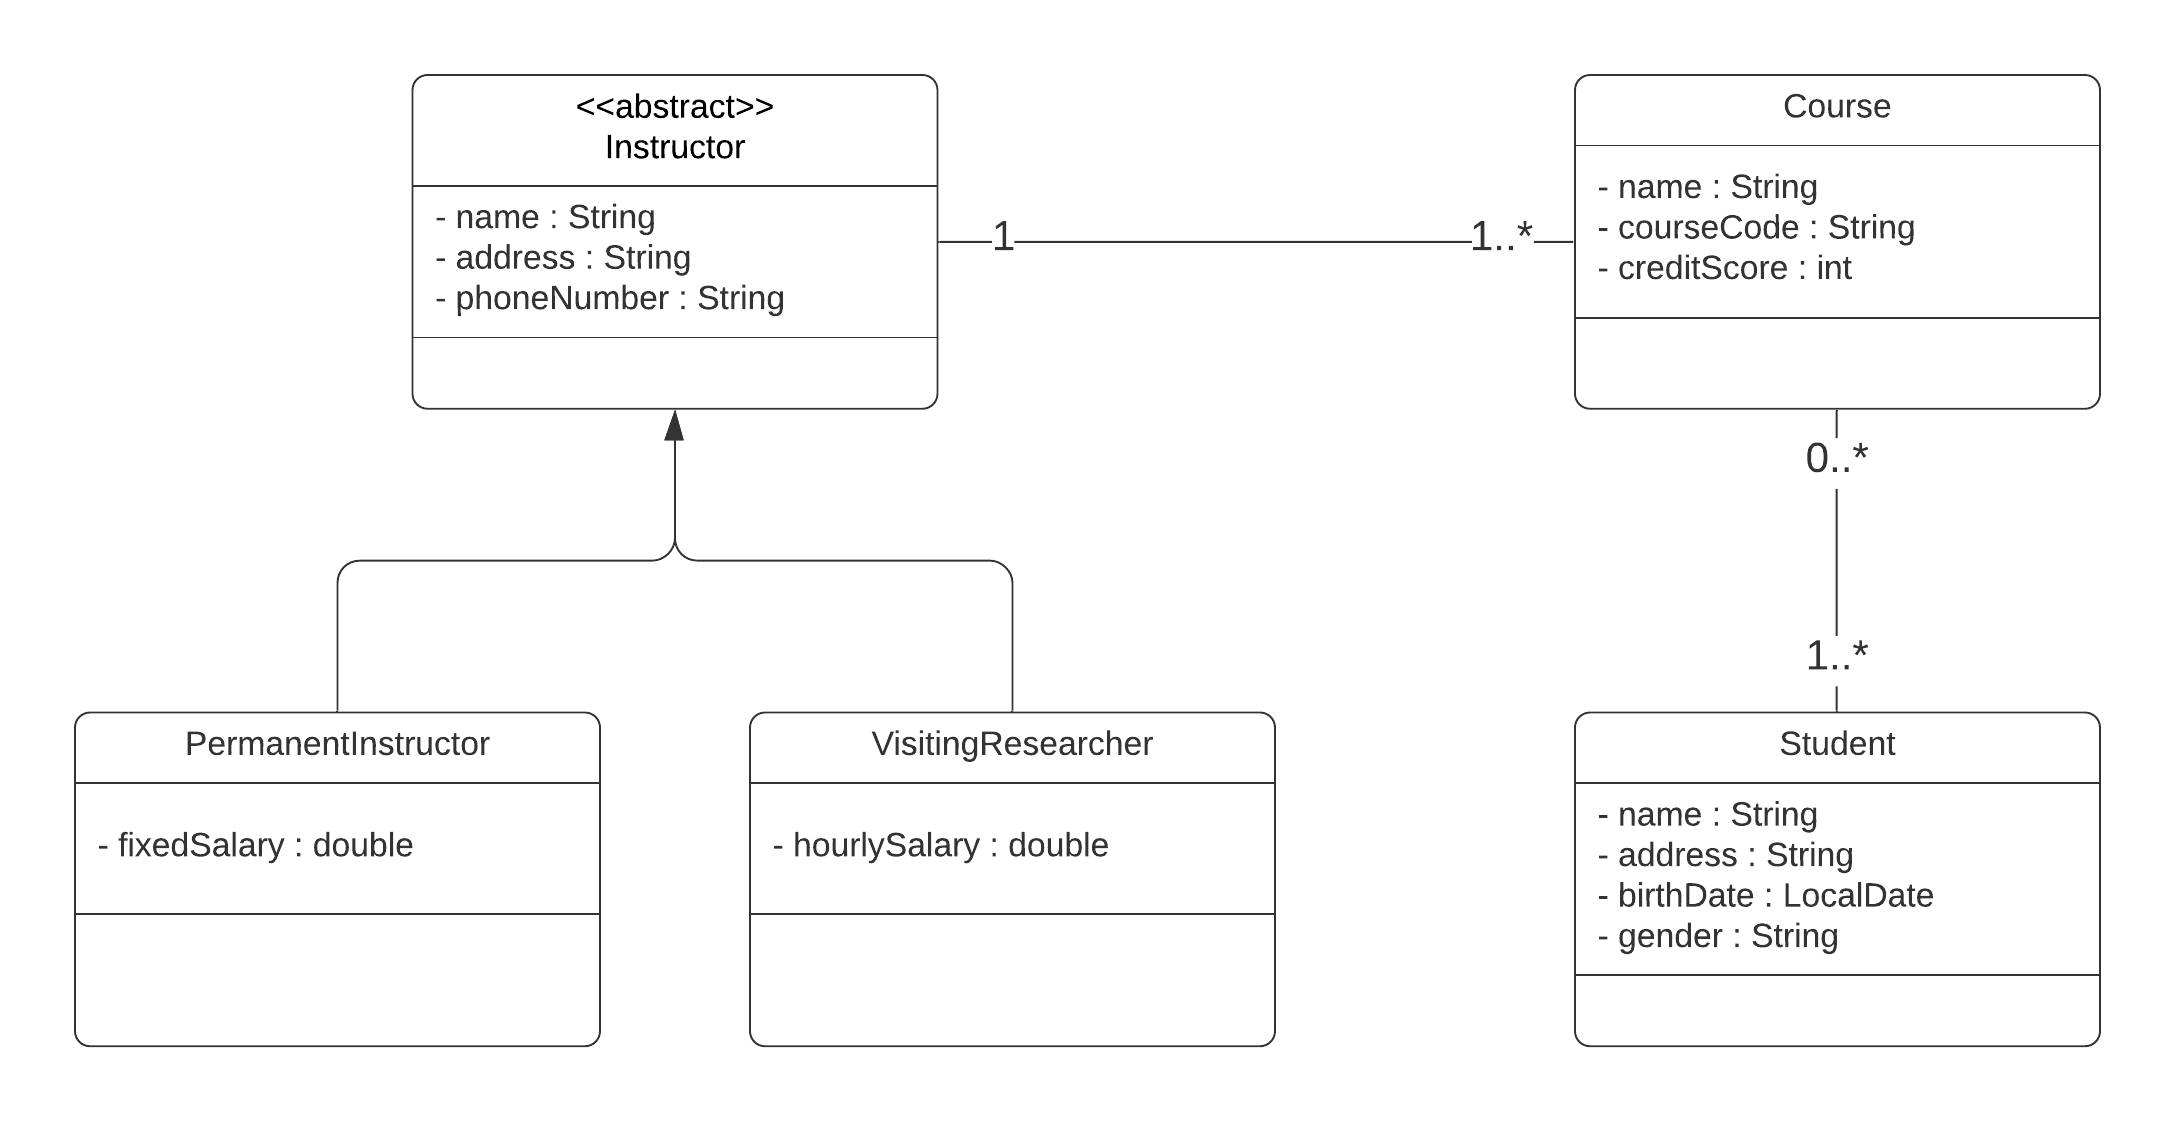
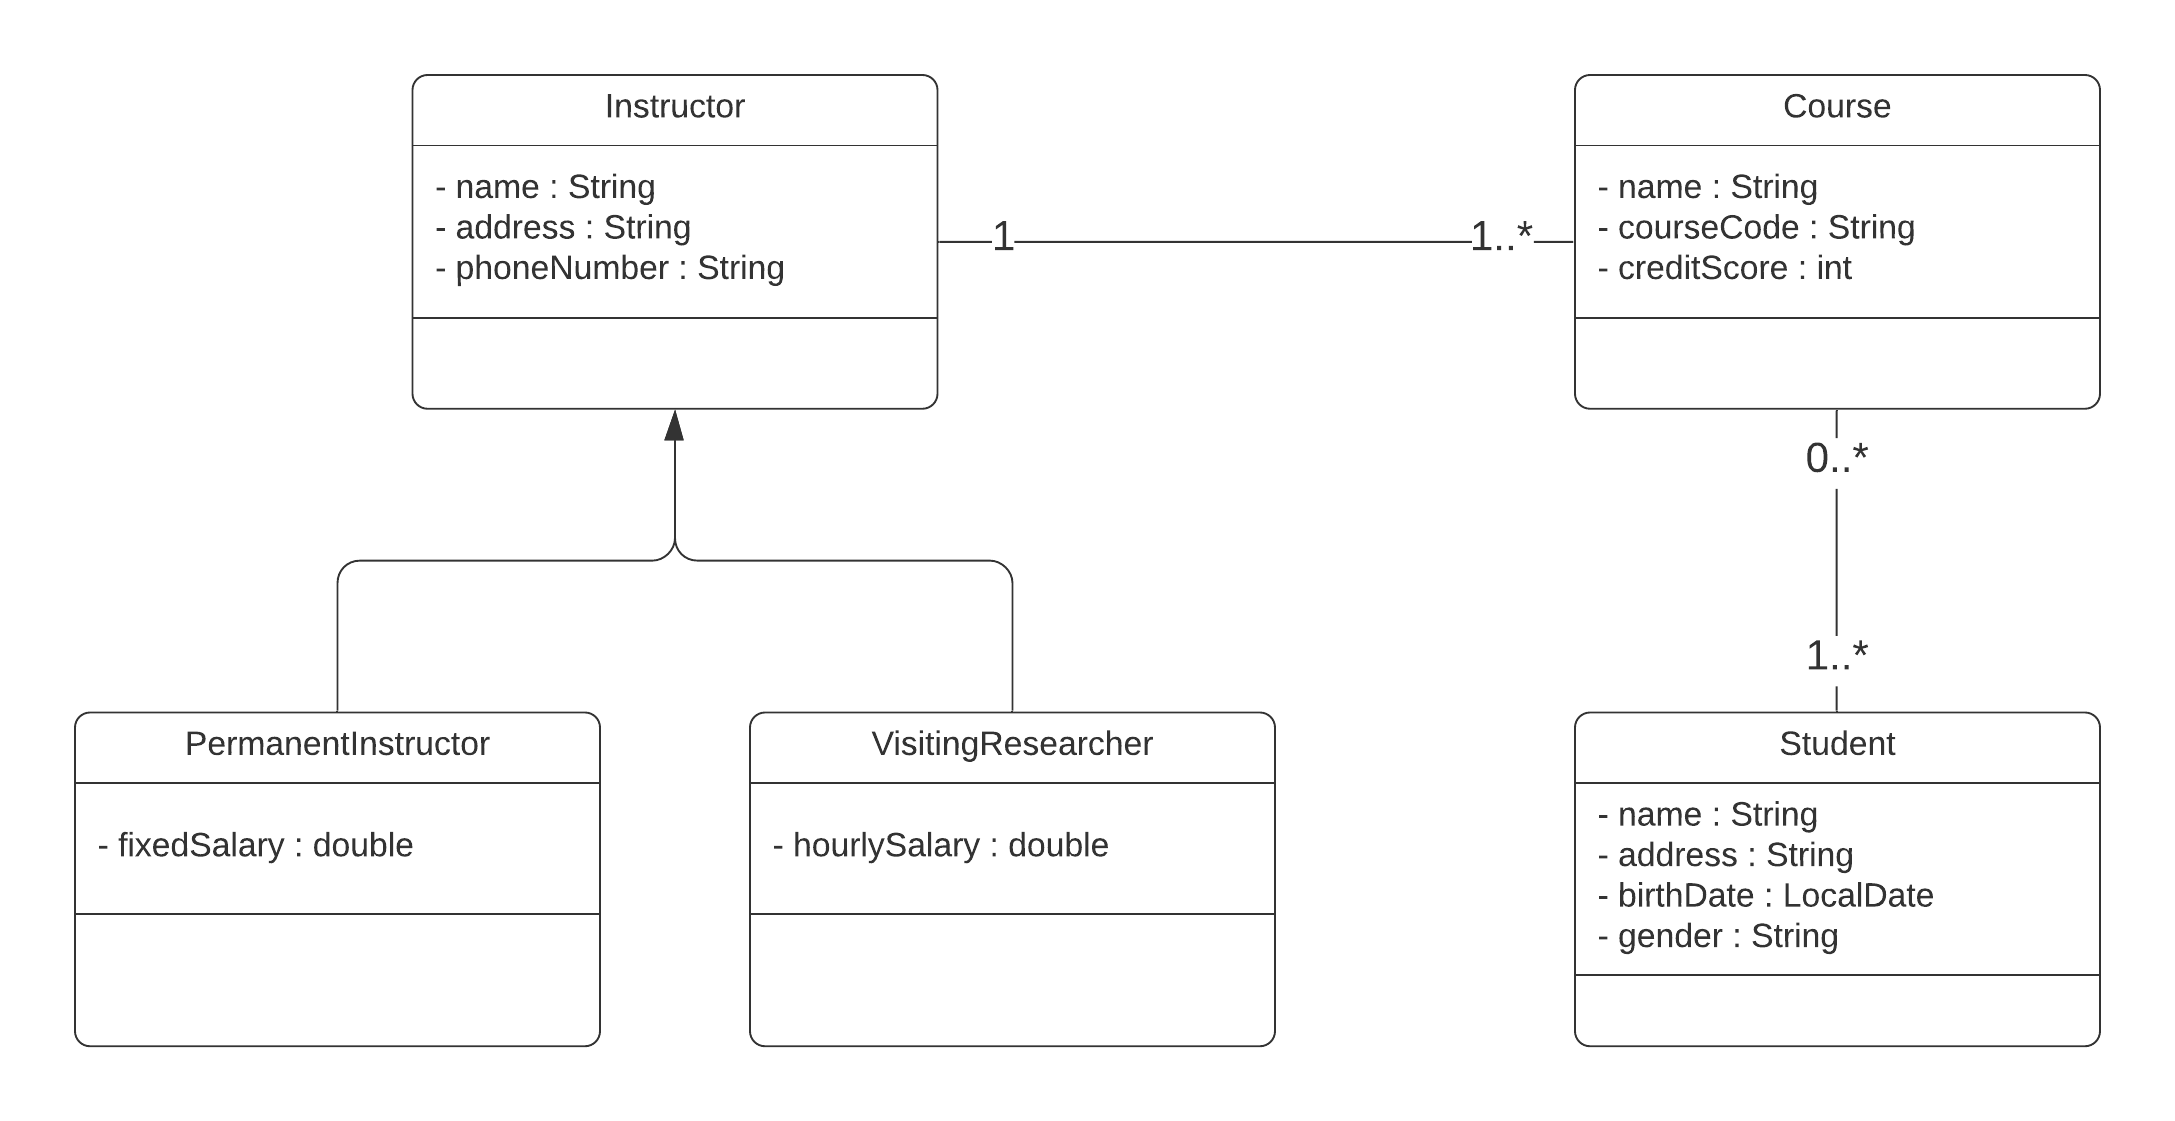
Course endpoints, service and repository

Changed region(s): [[0.1848, 0.0624, 0.3697, 0.281]]

diff --git a/school-management-system/src/main/java/io/github/muhittinpalamutcu/schoolmanagementsystem/controller/CourseController.java b/school-management-system/src/main/java/io/github/muhittinpalamutcu/schoolmanagementsystem/controller/CourseController.java
@@ -1,0 +1,77 @@
+package io.github.muhittinpalamutcu.schoolmanagementsystem.controller;
+
+import io.github.muhittinpalamutcu.schoolmanagementsystem.entity.Course;
+import io.github.muhittinpalamutcu.schoolmanagementsystem.service.CourseService;
+import lombok.RequiredArgsConstructor;
+import org.springframework.http.HttpStatus;
+import org.springframework.http.ResponseEntity;
+import org.springframework.web.bind.annotation.*;
+
+import java.util.List;
+
+@RestController
+@RequiredArgsConstructor
+@RequestMapping("/api")
+public class CourseController {
+
+    private final CourseService courseService;
+
+    // @desc Get all courses
+    // @route Get /api/courses
+    // @access Public
+    @GetMapping("/courses")
+    public ResponseEntity<List<Course>> findAll() {
+        return new ResponseEntity<>(courseService.findAll(), HttpStatus.OK);
+    }
+
+    // @desc Get course by id
+    // @route Get /api/courses/{id}
+    // @access Public
+    @GetMapping("/courses/{id}")
+    public Course findById(@PathVariable int id) {
+        return courseService.findById(id);
+    }
+
+    // @desc Save a course
+    // @route Post /api/courses
+    // @access Public
+    @PostMapping("/courses")
+    public Course saveCourse(@RequestBody Course course) {
+        return courseService.save(course);
+    }
+
+    // @desc Update a course
+    // @route Put /api/courses
+    // @access Public
+    @PutMapping("/courses")
+    public Course updateCourse(@RequestBody Course course) {
+        return courseService.update(course);
+    }
+
+    // @desc Delete course by id
+    // @route Delete /api/courses/{id}
+    // @access Public
+    @DeleteMapping("/courses/{id}")
+    public String deleteCourseById(@PathVariable int id) {
+        courseService.deleteById(id);
+        return "Course deleted...";
+    }
+
+    // @desc Get course by name
+    // @route Get /api/courses/getByName/{name}
+    // @access Public
+    @GetMapping("/courses/getByName/{name}")
+    public Course findByName(@PathVariable String name) {
+        return courseService.findByName(name);
+    }
+
+    // @desc Delete course by name
+    // @route Get /api/courses/deleteByName/{name}
+    // @access Public
+    @DeleteMapping("/courses/deleteByName/{name}")
+    public String deleteCourseByName(@PathVariable String name) {
+        courseService.deleteByName(name);
+        return "Course deleted...";
+    }
+
+}

diff --git a/school-management-system/src/main/java/io/github/muhittinpalamutcu/schoolmanagementsystem/util/InitializerRunner.java b/school-management-system/src/main/java/io/github/muhittinpalamutcu/schoolmanagementsystem/util/InitializerRunner.java
@@ -1,6 +1,8 @@
 package io.github.muhittinpalamutcu.schoolmanagementsystem.util;
 
+import io.github.muhittinpalamutcu.schoolmanagementsystem.entity.Course;
 import io.github.muhittinpalamutcu.schoolmanagementsystem.entity.Student;
+import io.github.muhittinpalamutcu.schoolmanagementsystem.repository.CourseRepository;
 import io.github.muhittinpalamutcu.schoolmanagementsystem.repository.StudentRepository;
 import org.springframework.beans.factory.annotation.Autowired;
 import org.springframework.boot.CommandLineRunner;
@@ -15,14 +17,24 @@ public class InitializerRunner implements CommandLineRunner {
     @Autowired
     StudentRepository studentRepository;
 
+    @Autowired
+    CourseRepository courseRepository;
+
     @Override
     public void run(String... args) throws Exception {
+        //wipe out all data before saving anything
         studentRepository.deleteAll();
+
         studentRepository.save(Student.builder().name("Ali").address("Izmir").birthDate(LocalDate.of(1998, Month.JANUARY, 13)).gender("MALE").build());
         studentRepository.save(Student.builder().name("Ahmet").address("Istanbul").birthDate(LocalDate.of(1990, Month.JULY, 23)).gender("MALE").build());
         studentRepository.save(Student.builder().name("John").address("London").birthDate(LocalDate.of(2001, Month.MARCH, 10)).gender("MALE").build());
         studentRepository.save(Student.builder().name("Jane").address("Amsterdam").birthDate(LocalDate.of(1992, Month.APRIL, 18)).gender("FEMALE").build());
         studentRepository.save(Student.builder().name("Ayse").address("Antalya").birthDate(LocalDate.of(1974, Month.AUGUST, 19)).gender("FEMALE").build());
+
+        courseRepository.save(Course.builder().name("Programming 1").courseCode("SE115").creditScore(5).build());
+        courseRepository.save(Course.builder().name("Programming 2").courseCode("SE116").creditScore(5).build());
+        courseRepository.save(Course.builder().name("Linear Algebra").courseCode("MATH250").creditScore(6).build());
+
     }
 
 }

diff --git a/school-management-system/src/main/java/io/github/muhittinpalamutcu/schoolmanagementsystem/service/CourseService.java b/school-management-system/src/main/java/io/github/muhittinpalamutcu/schoolmanagementsystem/service/CourseService.java
@@ -1,0 +1,55 @@
+package io.github.muhittinpalamutcu.schoolmanagementsystem.service;
+
+import io.github.muhittinpalamutcu.schoolmanagementsystem.entity.Course;
+import io.github.muhittinpalamutcu.schoolmanagementsystem.repository.CourseRepository;
+import lombok.RequiredArgsConstructor;
+import org.springframework.stereotype.Service;
+import org.springframework.transaction.annotation.Transactional;
+
+import java.util.List;
+
+@Service
+@RequiredArgsConstructor
+public class CourseService implements BaseService<Course> {
+
+    private final CourseRepository courseRepository;
+
+    @Override
+    public List<Course> findAll() {
+        return (List<Course>) courseRepository.findAll();
+    }
+
+    @Override
+    public Course findById(int id) {
+        return courseRepository.findById(id).get();
+    }
+
+    @Override
+    @Transactional
+    public Course save(Course course) {
+        return courseRepository.save(course);
+    }
+
+    @Override
+    public void deleteById(int id) {
+        courseRepository.deleteById(id);
+    }
+
+    @Override
+    @Transactional
+    public Course update(Course course) {
+        return courseRepository.save(course);
+    }
+
+    @Override
+    public Course findByName(String name) {
+        return courseRepository.findByName(name);
+    }
+
+    @Override
+    @Transactional
+    public void deleteByName(String name) {
+        courseRepository.deleteCourseByName(name);
+    }
+
+}

diff --git a/school-management-system/src/main/java/io/github/muhittinpalamutcu/schoolmanagementsystem/entity/Instructor.java b/school-management-system/src/main/java/io/github/muhittinpalamutcu/schoolmanagementsystem/entity/Instructor.java
@@ -1,6 +1,7 @@
 package io.github.muhittinpalamutcu.schoolmanagementsystem.entity;
 
 import lombok.AllArgsConstructor;
+import lombok.Builder;
 import lombok.Data;
 import lombok.NoArgsConstructor;
 
@@ -12,10 +13,10 @@ import java.util.List;
 @AllArgsConstructor
 @NoArgsConstructor
 @Entity
-@Inheritance(strategy = InheritanceType.TABLE_PER_CLASS)
-public abstract class Instructor {
+@Builder
+public class Instructor {
     @Id
-    @GeneratedValue(strategy = GenerationType.TABLE)
+    @GeneratedValue(strategy = GenerationType.IDENTITY)
     private int id;
     private String address;
     private String phoneNumber;

diff --git a/school-management-system/src/main/java/io/github/muhittinpalamutcu/schoolmanagementsystem/controller/StudentController.java b/school-management-system/src/main/java/io/github/muhittinpalamutcu/schoolmanagementsystem/controller/StudentController.java
@@ -15,6 +15,7 @@ import java.util.List;
 @RequiredArgsConstructor
 @RequestMapping("/api")
 public class StudentController {
+
     private final StudentService studentService;
 
     // @desc Get all students
@@ -62,7 +63,7 @@ public class StudentController {
     // @route Get /api/students/getByName/{name}
     // @access Public
     @GetMapping("/students/getByName/{name}")
-    public Student findById(@PathVariable String name) {
+    public Student findByName(@PathVariable String name) {
         return studentService.findByName(name);
     }
 

diff --git a/school-management-system/src/main/java/io/github/muhittinpalamutcu/schoolmanagementsystem/repository/CourseRepository.java b/school-management-system/src/main/java/io/github/muhittinpalamutcu/schoolmanagementsystem/repository/CourseRepository.java
@@ -1,0 +1,12 @@
+package io.github.muhittinpalamutcu.schoolmanagementsystem.repository;
+
+import io.github.muhittinpalamutcu.schoolmanagementsystem.entity.Course;
+import io.github.muhittinpalamutcu.schoolmanagementsystem.entity.Student;
+import org.springframework.data.repository.CrudRepository;
+import org.springframework.stereotype.Repository;
+
+@Repository
+public interface CourseRepository extends CrudRepository<Course, Integer> {
+    Course findByName(String name);
+    void deleteCourseByName(String name);
+}

diff --git a/school-management-system/src/main/java/io/github/muhittinpalamutcu/schoolmanagementsystem/entity/Course.java b/school-management-system/src/main/java/io/github/muhittinpalamutcu/schoolmanagementsystem/entity/Course.java
@@ -1,6 +1,7 @@
 package io.github.muhittinpalamutcu.schoolmanagementsystem.entity;
 
 import lombok.AllArgsConstructor;
+import lombok.Builder;
 import lombok.Data;
 import lombok.NoArgsConstructor;
 
@@ -13,6 +14,7 @@ import java.util.List;
 @AllArgsConstructor
 @NoArgsConstructor
 @Entity
+@Builder
 public class Course {
     @Id
     @GeneratedValue(strategy = GenerationType.IDENTITY)

diff --git a/school-management-system/src/main/java/io/github/muhittinpalamutcu/schoolmanagementsystem/repository/StudentRepository.java b/school-management-system/src/main/java/io/github/muhittinpalamutcu/schoolmanagementsystem/repository/StudentRepository.java
@@ -11,7 +11,6 @@ import java.util.List;
 public interface StudentRepository extends CrudRepository<Student, Integer> {
 
     Student findByName(String name);
-    void deleteByName(String name);
     void deleteStudentByName(String name);
 
     @Query("select count(s) from Student s  group by s.gender")

diff --git a/school-management-system/src/main/java/io/github/muhittinpalamutcu/schoolmanagementsystem/service/BaseService.java b/school-management-system/src/main/java/io/github/muhittinpalamutcu/schoolmanagementsystem/service/BaseService.java
@@ -11,4 +11,5 @@ public interface BaseService<T> {
     void deleteById(int id);
     T update(T object);
     T findByName(String name);
+    void deleteByName(String name);
 }
